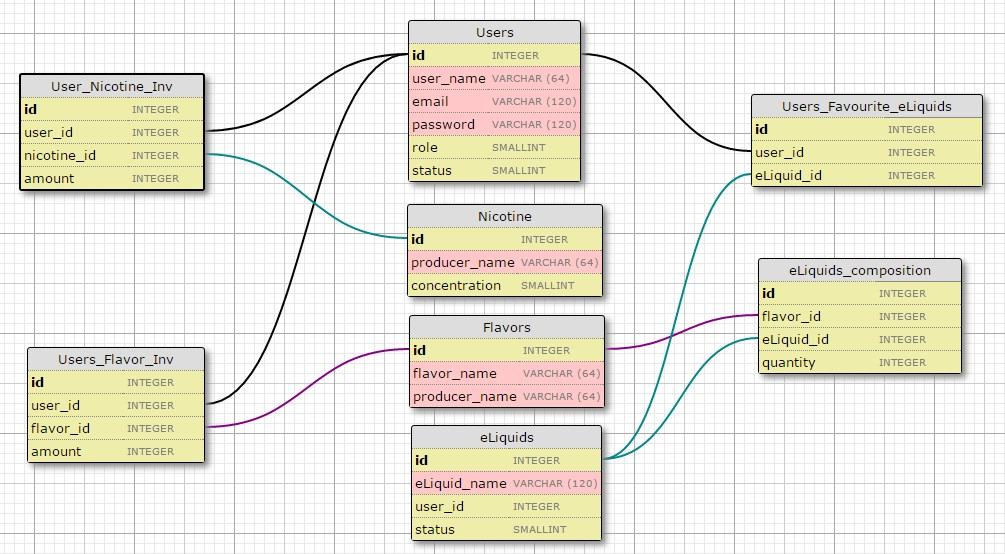
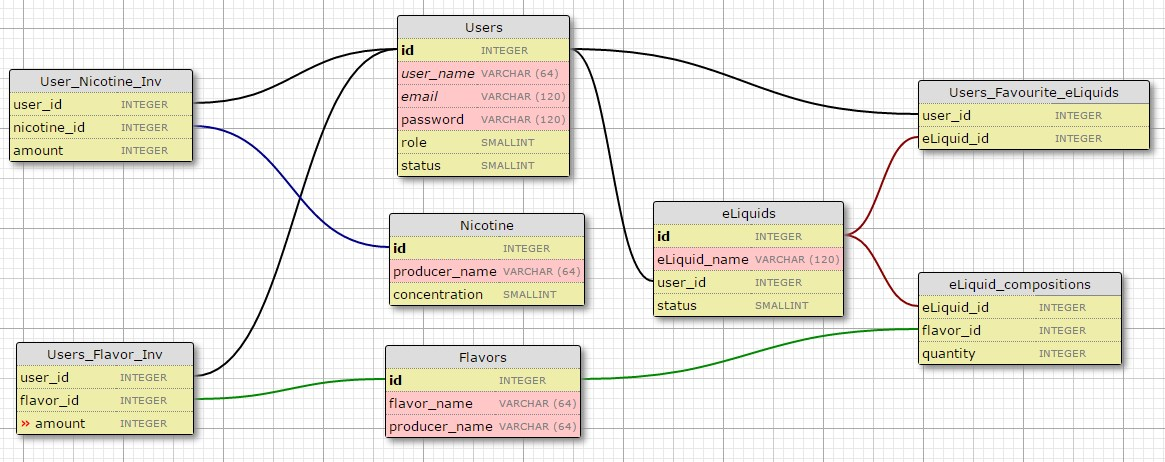
Бд необходимо переделать по причине неправильной трактовки её концепции. Начал переделывать. Есть вопросы.

diff --git a/website/db_test.py b/website/db_test.py
@@ -1,33 +1,39 @@
 from website.app import db, models
 from random import randint
 
-u = models.User(user_name='NOTFEDOS', email='NOTFEDOS@FEDOS.FEDOS', password='PESOS')
-db.session.add(u)
-db.session.commit()
-
-
-u = models.User(user_name='FEDOS', email='FEDOS@FEDOS.FEDOS', password='PESOS')
-db.session.add(u)
-db.session.commit()
-
-users = models.User.query.all()
-print(users)
-
-for user in users:
-    print(user.id, user.user_name, user.email, user.password)
-
-a = ['Pineapple', 'Mango', 'Coconut', 'Menthol', 'Banana']
-b = ['TPA', 'TPA', 'TPA', 'TPA', 'TPA']
-for i in range(len(a)):
-    f = models.Flavor(flavor_name=a[i], producer_name=b[i])
-    db.session.add(f)
-    db.session.commit()
-
-for i in range(1,6):
-    ufi = models.UserFlavorInventory(user_id=2, flavor_id=i, amount=randint(5,15))
-    db.session.add(ufi)
-    db.session.commit()
+# u = models.User(user_name='NOTFEDOS', email='NOTFEDOS@FEDOS.FEDOS', password='PESOS')
+# db.session.add(u)
+# db.session.commit()
+#
+#
+# u = models.User(user_name='FEDOS', email='FEDOS@FEDOS.FEDOS', password='PESOS')
+# db.session.add(u)
+# db.session.commit()
+#
+# users = models.User.query.all()
+# print(users)
+#
+# for user in users:
+#     print(user.id, user.user_name, user.email, user.password)
+#
+# a = ['Pineapple', 'Mango', 'Coconut', 'Menthol', 'Banana']
+# b = ['TPA', 'TPA', 'TPA', 'TPA', 'TPA']
+# for i in range(len(a)):
+#     f = models.Flavor(flavor_name=a[i], producer_name=b[i])
+#     db.session.add(f)
+#     db.session.commit()
+#
+# for i in range(1,6):
+#     ufi = models.UserFlavorInventory(user_id=2, flavor_id=i, amount=randint(5,15))
+#     db.session.add(ufi)
+#     db.session.commit()
 
 # ufi = models.UserFlavorInventory(user_id=2, flavor_id=1, amount=randint(5,15))
 # db.session.add(ufi)
 # db.session.commit()
+
+
+users = models.User.query.all()
+for u in users:
+    print(u)
+    db.session.delete(u)

diff --git a/website/app/models.py b/website/app/models.py
@@ -53,19 +53,17 @@ class ELiquid(db.Model):
         return '<Flavor %r>' % (self.eliquid_name)
 
 
-class ELiquidComposition(db.Model):
 
-    __tablename__ = 'eLiquids_composition'
-    id = db.Column(db.Integer, primary_key=True)
-    eliquid_id = db.Column(db.Integer, db.ForeignKey('eLiquids.id'))
-    flavor_id = db.Column(db.Integer, db.ForeignKey('Flavors.id'))
-    quantity = db.Column(db.SmallInteger)
-
+eliquidscompositions = db.Table('eLiquid_compositions',
+    db.Column('eliquid_id', db.Integer, db.ForeignKey('eLiquids.id')),
+    db.Column('flavor_id', db.Integer, db.ForeignKey('Flavors.id')),
+    db.Column('quantity', db.SmallInteger)
+)
 
 class UserFlavorInventory(db.Model):
 
     __tablename__ = 'Users_Flavor_Inv'
-    id = db.Column(db.Integer, primary_key=True)
+
     user_id = db.Column(db.Integer, db.ForeignKey('Users.id'))
     flavor_id = db.Column(db.Integer, db.ForeignKey('Flavors.id'))
     amount = db.Column(db.SmallInteger)
@@ -74,7 +72,7 @@ class UserFlavorInventory(db.Model):
 class UsersNicotineInventory(db.Model):
 
     __tablename__ = 'User_Nicotine_Inv'
-    id = db.Column(db.Integer, primary_key=True)
+
     user_id = db.Column(db.Integer, db.ForeignKey('Users.id'))
     nicotine_id = db.Column(db.Integer, db.ForeignKey('Nicotine.id'))
     amount = db.Column(db.SmallInteger)
@@ -83,6 +81,6 @@ class UsersNicotineInventory(db.Model):
 class UsersFavouriteELiquids(db.Model):
 
     __tablename__ = 'Users_Favourite_eLiquids'
-    id = db.Column(db.Integer, primary_key=True)
+
     user_id = db.Column(db.Integer, db.ForeignKey('Users.id'))
     eliquid_id = db.Column(db.Integer, db.ForeignKey('eLiquids.id'))
